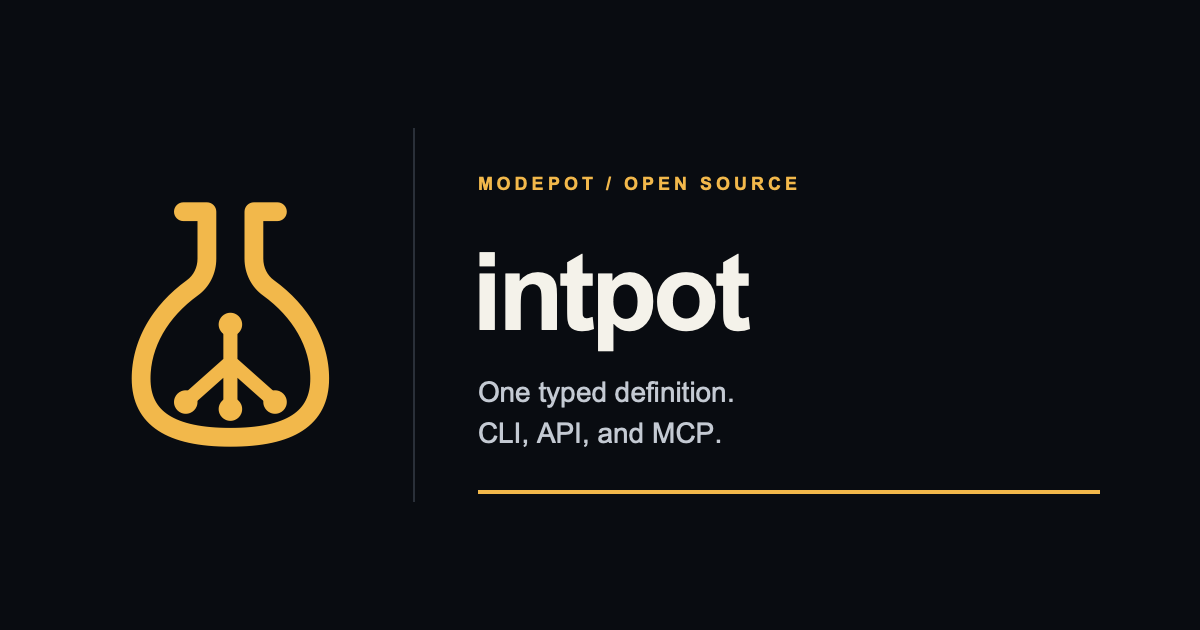
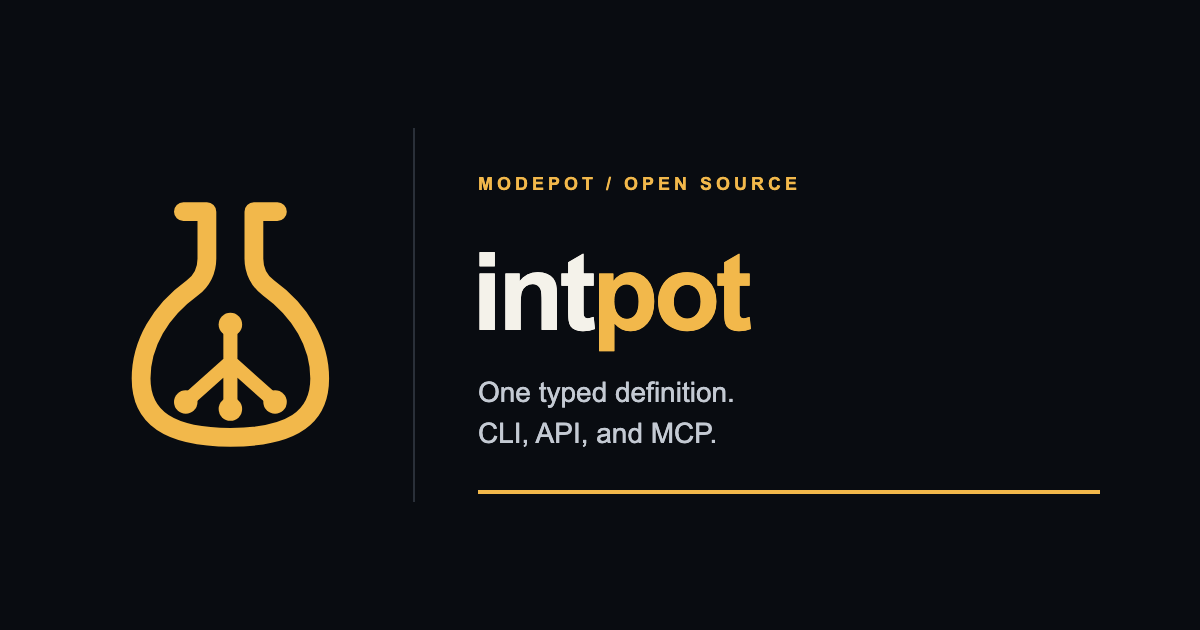
fix(branding): color Intpot wordmark suffix amber (#207)
* fix(branding): color Intpot wordmark suffix amber

* fix: regenerate Intpot raster wordmarks from corrected sources

diff --git a/tests/test_readme_family.py b/tests/test_readme_family.py
@@ -8,7 +8,7 @@ def test_readme_family_presentation():
     readme = (Path(__file__).resolve().parents[1] / "README.md").read_text()
     hero = re.search(r"<img\b[^>]+>", readme)
     assert hero is not None
-    assert 'src="intpot_image.webp"' in hero.group()
+    assert 'src="intpot_image.webp?v=wordmark-3"' in hero.group()
     assert 'width="600"' in hero.group()
     after_hero = readme[readme.index("</p>", hero.end()) + 4 :]
     resource_row = re.search(r'<p align="center">(.*?)</p>', after_hero, re.DOTALL)

diff --git a/README.md b/README.md
@@ -1,7 +1,7 @@
 # intpot
 
 <p align="center">
-  <img src="intpot_image.webp" alt="intpot: Python tools served as CLI, API, or MCP" width="600">
+  <img src="intpot_image.webp?v=wordmark-3" alt="intpot: Python tools served as CLI, API, or MCP" width="600">
 </p>
 
 <p align="center">Part of <a href="https://modepot.io/">ModePot</a>. &nbsp; <a href="https://intpot.modepot.io/">Project website</a> &nbsp; <a href="https://tugrul.modepot.io/">Created by Tugrul Guner</a></p>

diff --git a/changelog.d/+minimal-wordmark.fixed.md b/changelog.d/+minimal-wordmark.fixed.md
@@ -1,0 +1,1 @@
+Fixes the Intpot wordmark so its `int` prefix is off-white and its joined `pot` suffix is amber across the canonical lockup and social preview.
